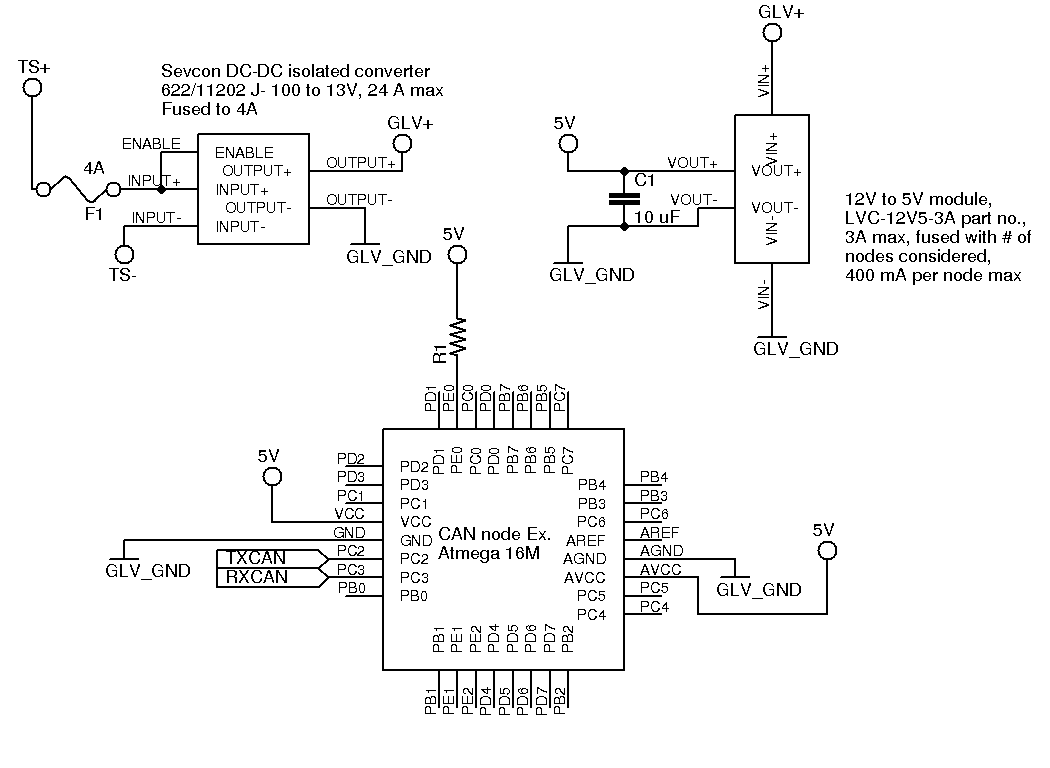
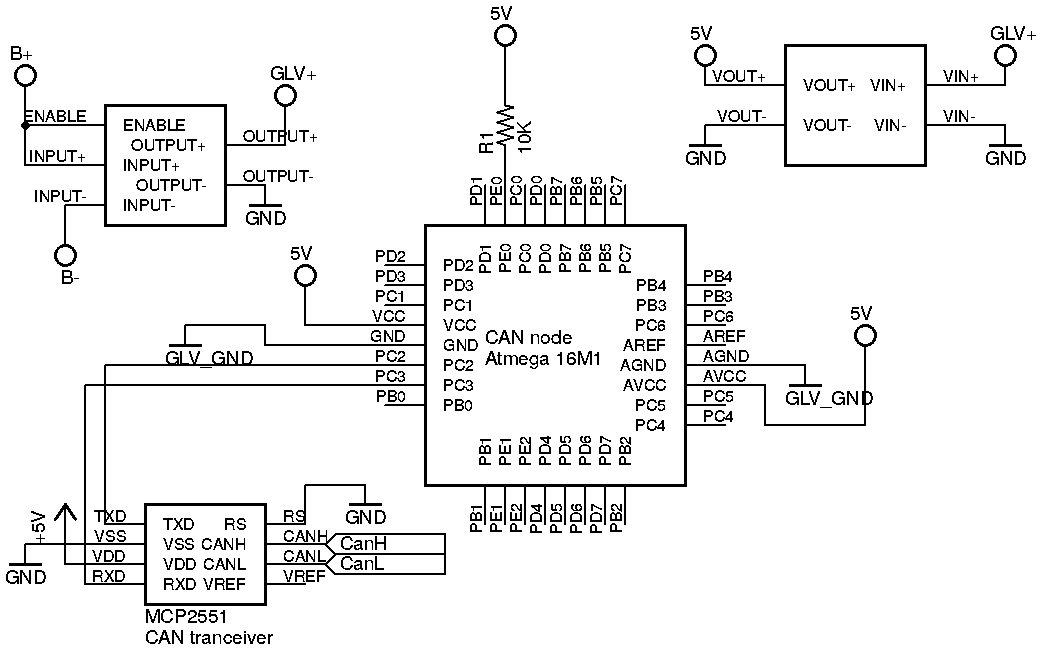
Images update, some captions changed

diff --git a/formula_sae_esf.tex b/formula_sae_esf.tex
@@ -231,19 +231,19 @@
 
         \subsubsection{Position in Car}
 
-        With the exception of the emergency shutdown buttons and tractive system interlocks, the components comprising the shutdown circuit are housed within a waterproof enclosure, located at the rear of the chassis, behind the main hoop, on the driver's right.  This enclosure is bolted onto steel brackets which are welded to the main hoop.  This enclosure consists of an ABS panel where the TSMS, GLVMS, TSMPs, GLVMPs, AMS, and IMD reset will be mounted, and a 3D printed rear housing with integrated 23-pin Deutsch DT panel mount connector, \hlr{as seen in figure} \ref{cpanel1}. In addition to the buttons and measuring points, the housing also contains the IMD, IMD relay, a PCB, a DC-DC converter, and an SLA battery\hlr{, as seen in figure} \ref{cpanel2}.  The tractive system and low voltage systems are separated by at least two centimeters at all times.
+        \hlr{With the exception of the emergency shutdown buttons and tractive system interlocks, the components comprising the shutdown circuit are housed within a waterproof enclosure, located at the rear of the chassis, behind the main hoop, on the driver's right.  This enclosure is bolted onto steel brackets which are welded to the main hoop.  This enclosure consists of an ABS panel where the TSMS, GLVMS, TSMPs, GLVMPs, AMS, and IMD reset will be mounted, and a 3D printed rear housing with integrated 23-pin Deutsch DT panel mount connector, as seen in figure} \ref{cpanel1}. \hlr{In addition to the buttons and measuring points, the housing also contains the IMD, IMD relay, a PCB, a DC-DC converter, and an SLA battery, as seen in figure} \ref{cpanel2}.  \hlr{The tractive system and low voltage systems are separated by at least two centimeters at all times.}
 
             \begin{figure}[H]
                 \centering
                 \includegraphics[width = 0.6 \textwidth]{CONTROLPANEL_1}
-                \caption{Shutdown Circuit Enclosure Vehicle Location}
+                \caption{\hlr{Shutdown Circuit Enclosure Vehicle Location}}
                 \label{cpanel}
             \end{figure}
 
             \begin{figure}[H]
                 \centering
                 \includegraphics[width = 0.6 \textwidth]{CONTROLPANEL_2}
-                \caption{Waterproof Enclosure for TS MS, GLV MS, TSMP, GLVMP, \& Shutdown Circuit}
+                \caption{\hlr{Waterproof Enclosure for TS MS, GLV MS, TSMP, GLVMP, \& Shutdown Circuit}}
                 \label{cpanel2}
             \end{figure}
 
@@ -296,7 +296,7 @@
 
         \subsubsection{Description (Type, Operation Parameters)}
 
-            The Sensata Resettable crash sensor (6-11g version) will trigger due to an impact that decelerates the vehicle at between 6-11g. The normally closed switch will then open to protect both the driver and any operator from \hlr{damage caused from the impact}.
+            The Sensata Resettable crash sensor (6-11g version) will trigger due to an impact that decelerates the vehicle at between 6-11g.
 
     \begin{table}[H]
     \centering
@@ -486,7 +486,7 @@ A Hall effect current sensor, wired before the current splits to the motor contr
             \begin{figure}[H]
             \centering
             \includegraphics[width = 0.7 \textwidth]{TSAL_FSAE}
-            \caption{Schematic for the TSAL}
+            \caption{\hlr{Schematic for the TSAL}}
             \label{TSALschem}
             \end{figure}
 
@@ -567,7 +567,7 @@ A Hall effect current sensor, wired before the current splits to the motor contr
 
         \begin{sidewaysfigure}[p]
             \includegraphics[width=\textheight]{precharge}
-            \caption{Precharge system schematic, including the AIR economizers}
+            \caption{\hlr{Precharge system schematic, including the AIR economizers}}
             \label{prechargeschem}
         \end{sidewaysfigure}
 
@@ -727,7 +727,7 @@ A Hall effect current sensor, wired before the current splits to the motor contr
             \begin{figure}[H]
                 \centering
                 \includegraphics[width = 0.75 \textwidth]{HVD}
-                \caption{Schematic of primary tractive system connections}
+                \caption{\hlr{Schematic of primary tractive system connections}}
                 \label{HVDschem}
             \end{figure}
 
@@ -739,7 +739,7 @@ A Hall effect current sensor, wired before the current splits to the motor contr
         \begin{figure}[H]
             \centering
             \includegraphics[width = 0.6 \textwidth]{hvd_position}
-            \caption{\hlr{Position of the HVD in the vehicle. It is located in line with TS+, and is attached to the accumulator in the back of the vehicle. }}
+            \caption{\hlr{Position of the HVD in the vehicle. It is located in line with TS+, and is attached to the motor controller housing in the back of the vehicle. }}
             \label{hvdlocation}
         \end{figure}
 
@@ -852,7 +852,7 @@ A Hall effect current sensor, wired before the current splits to the motor contr
             \begin{figure}[H]
             \centering
             \includegraphics{moduleschem}
-            \caption{Schematic of a Nissan Leaf Battery Module}
+            \caption{\hlr{Schematic of a Nissan Leaf Battery Module}}
             \label{module}
             \end{figure}
 
@@ -870,7 +870,7 @@ A Hall effect current sensor, wired before the current splits to the motor contr
             \begin{figure}[H]
                 \centering
                 \includegraphics[width = 0.6 \textwidth]{busbar_routing}
-                \caption{Busbar Routing with MSD Wire Leads}
+                \caption{\hlr{Busbar Routing with MSD Wire Leads}}
                 \label{busbar}
             \end{figure}
 
@@ -918,14 +918,14 @@ A Hall effect current sensor, wired before the current splits to the motor contr
             \begin{figure}[H]
                 \centering
                 \includegraphics[width = 0.7 \textwidth]{bms_final1_PCBCAD}
-                \caption{CAD of 1 AMS board (all identical). Cyan polygon indicates GLV voltage, and the $\Delta x$ measurement is the distance between TS and GLV.}
+                \caption{\hlr{CAD of 1 AMS board (all identical). Cyan polygon indicates GLV voltage, and the $\Delta x$ measurement is the distance between TS and GLV ($6.57$ mm)}.}
                 \label{bmspcb}
             \end{figure}
 
 
             \begin{figure}[H]
                 \centering
-                \includegraphics[width=0.8 \textwidth]{bms_separation_detail}
+                \includegraphics[width=0.5 \textwidth]{bms_separation_detail}
                 \caption{\hlr{Detail of BMS PCB where the minimum over surface distance (6.4 mm) are met. Distance between TS and GLV is shown to be $6.57$ mm (over surface)}}
                 \label{creepage}
             \end{figure}
@@ -954,15 +954,7 @@ A Hall effect current sensor, wired before the current splits to the motor contr
                 \caption{\hlr{Cell Breakout Board PCB Layout for the right hand side Note the fuses labeled with "F" and then a number. There is only TS voltage on this PCB.}}
                 \label{celltopRH}
             \end{figure}
-
-            \begin{figure}[H]
-                \centering
-                \includegraphics[width = 0.6 \textwidth]{batterybox_topview}
-                \caption{CAD of the location of the cell-top boards in the accumulator}
-                \label{accumtopcad}
-            \end{figure}
-
-
+            \hlr{The location of the cell top boards can be seen in figure} \ref{busbar}.
 
         \subsubsection{Accumulator Indicator} \label{aindicator}
         %doesn't the accumulator indicator need to be run off of AIR control voltage? The pertinent rule is EV 3.3.9. The DC-DC can be powered without the AIR's being %closed.
@@ -976,15 +968,7 @@ A Hall effect current sensor, wired before the current splits to the motor contr
             \label{indicator}
             \end{figure}
 
-            As shown in Figure \ref{indicator}, J2 connects the accumulator indicator, D14, \hlr{to a zener diode running of TS voltage. The zener diode allows TS voltage to pass through the accumulator indicator LED and a resistor after TS voltage is over 60 VDC.  R13 is a 220$\ohm$ resistor to limit current. The calculations are as follows, assuming a forward voltage drop of the LED to be 2V:}
-
-            \begin{align}
-                100-2 V &= I * 220 \ohm \\
-                I &= 45 mA
-            \end{align}
-            %figure out a way to add higlight in an align
-
-            \hlr{The accumulator indicator is located on the AIR control board PCB, and has traces of 20 mil, which are rated for 1.4A. }
+            As shown in Figure \ref{indicator}, J2 connects the accumulator indicator, D14, \hlr{to a zener diode running of TS voltage. The zener diode allows TS voltage to pass through the accumulator indicator LED and a resistor \hlr{(to limit current)} after TS voltage is over 60 VDC. \hlr{The accumulator indicator is located on the AIR control board PCB, and has traces of 20 mil, which are rated for 1.4A, while the maximum current (using the current limiting resistor) will be 45mA. }
 
         \subsubsection{Wiring, Cables, Current Calculations, Connectors} \label{batteryconnectors}
 
@@ -1203,6 +1187,8 @@ A Hall effect current sensor, wired before the current splits to the motor contr
 
             The accumulator cart will contain a specialized shutdown circuit that allows the accumulator to be charged through \hlr{the charging connector, and the shutdown circuit to close without the main accumulator connector interlocks engaged}. The AMS will be active during charging and have the ability to open the AIRs and stop charging in the event of dangerous battery conditions. This shut down circuit will contain a separate IMD, an emergency stop, and an interlocking connection between the charger and accumulator. \hlr{ The separate IMD used is also the IR155-3204 from Bender, the same model of IMD used on the car.}
 
+            \hlr{The connectors used for charging will be the Molex Two-Pin Connector (interlock), integrated with Delphi Shield-Pack (see the next section for details).}
+
 
             \begin{figure}[H]
                 \centering
@@ -1239,6 +1225,22 @@ A Hall effect current sensor, wired before the current splits to the motor contr
                 \caption{Cell Mounting Exploded}
                 \label{cellexp}
             \end{figure}
+
+            \hlr{The connectors used will be:}
+            \hlr{Accumulator to MC Connections}
+            \hlr{Delphi Shield-Pack HV2000 Connectors}
+
+            \hlr{Accumulator to HVD:}
+            \hlr{Hardwired, double-shielded 35mm^2 stranded wire}
+
+            \hlr{Charging Connector:}
+            \hlr{Deutsch HD10 6-Pin (P/N: HD10-6-12P, HD16-6-12S)}
+
+            \hlr{GLVS Connector:}
+            \hlr{AMPSEAL 23-Pin, (P/N: 770680-4, 776087-1)}
+
+            \hlr{TS Low-Current Connector:}
+            \hlr{AMPSEAL 8-Pin (P/N: 776286-1, 776280-1)}
 
         \subsubsection{Position in Car}
 
@@ -1558,7 +1560,7 @@ A Hall effect current sensor, wired before the current splits to the motor contr
 
             \begin{figure}[H]
                 \centering
-                \includegraphics[width = 0.6 \textwidth]{GLV_DCDC}
+                \includegraphics[width = 0.5 \textwidth]{GLV_DCDC}
                 \caption{CAD model of the DC-DC converter for the GLV system}
                 \label{dcdc_cad}
             \end{figure}
@@ -1603,12 +1605,18 @@ A Hall effect current sensor, wired before the current splits to the motor contr
 
         \subsubsection{Wiring, Cables}
 
-            \begin{figure}[H]
-            \centering
-            \includegraphics[width = 0.8 \textwidth]{IMDandCANschem}
-            \caption{Schematic for the node on the ready to drive sound, watchdog, and side e-stops and IMD}
-            \label{panelnode}
-            \end{figure}
+            % \begin{figure}[H]
+            % \centering
+            % \includegraphics[width = 0.8 \textwidth]{IMDandCANschem}
+            % \caption{Schematic for the node on the ready to drive sound, watchdog, and side e-stops and IMD}
+            % \label{panelnode}
+            % \end{figure}
+
+            \begin{sidewaysfigure}[p]
+            \includegraphics[width=\textheight]{Panel-Board}
+            \caption{\hlr{Side Panel node wiring. The PCB's schematic, shown here, includes TS wiring going to the TSMPs, IMD and R2D sound.}}
+            \label{tractive}
+            \end{sidewaysfigure}
 
             As shown in Figure \ref{panelnode}, both the IMD and the ready to drive sound relay are wired to the CAN node located in the \hlr{side panel housing}.\\
 
